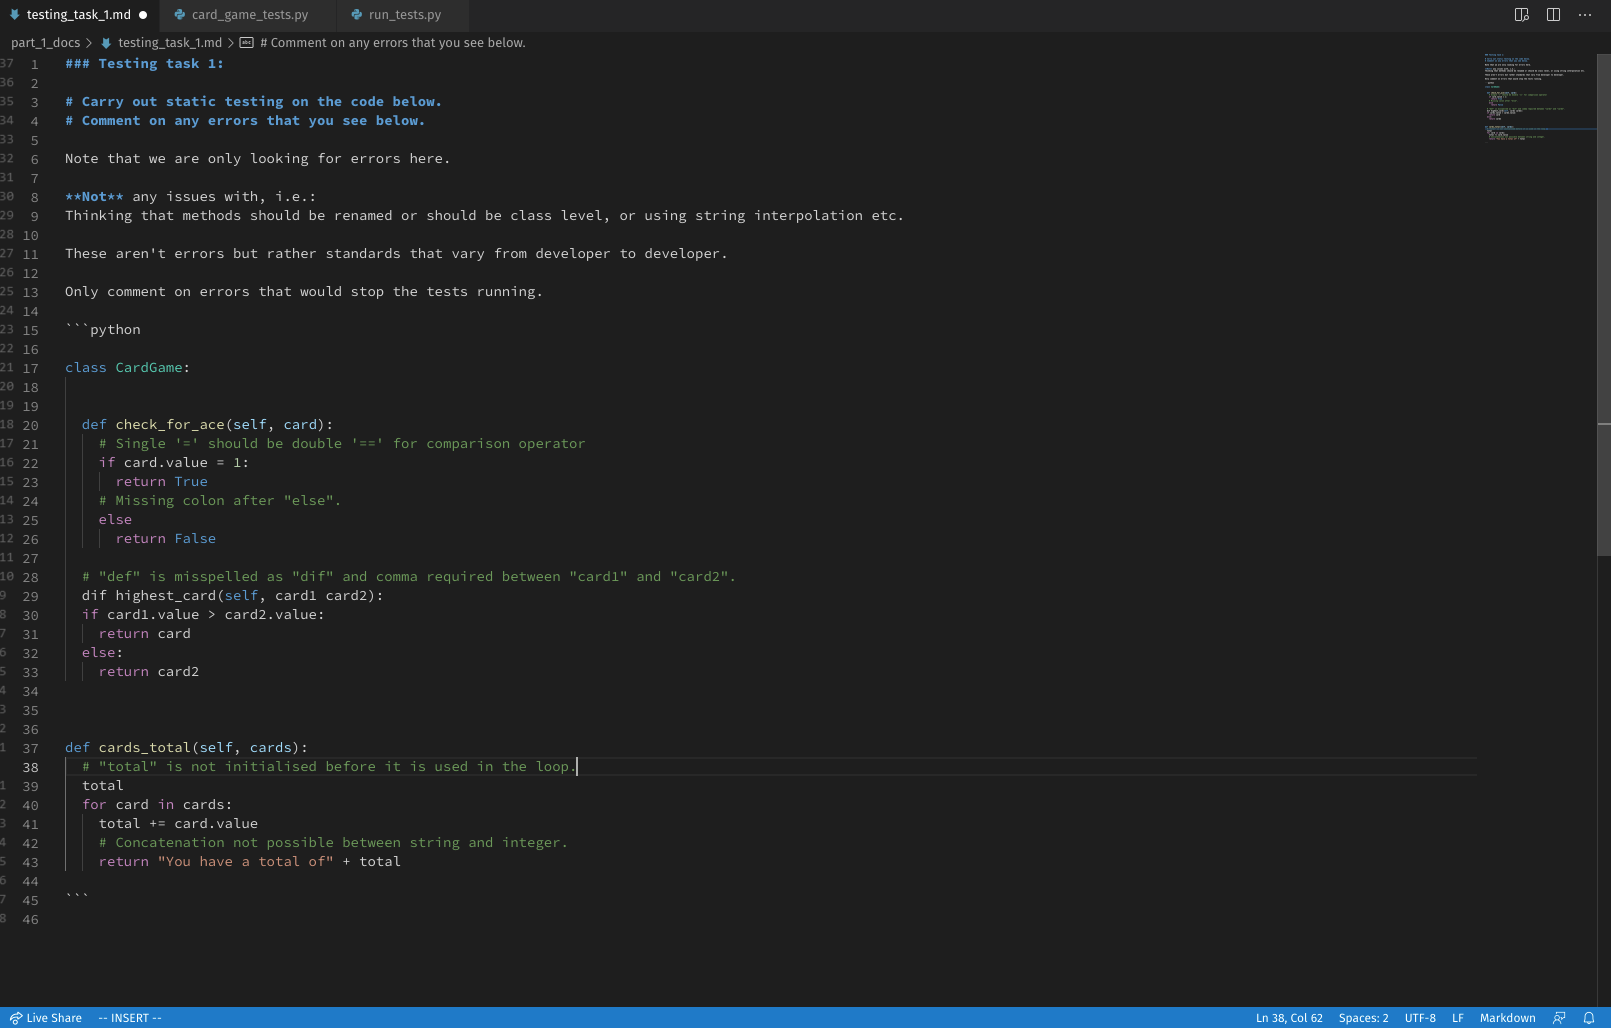
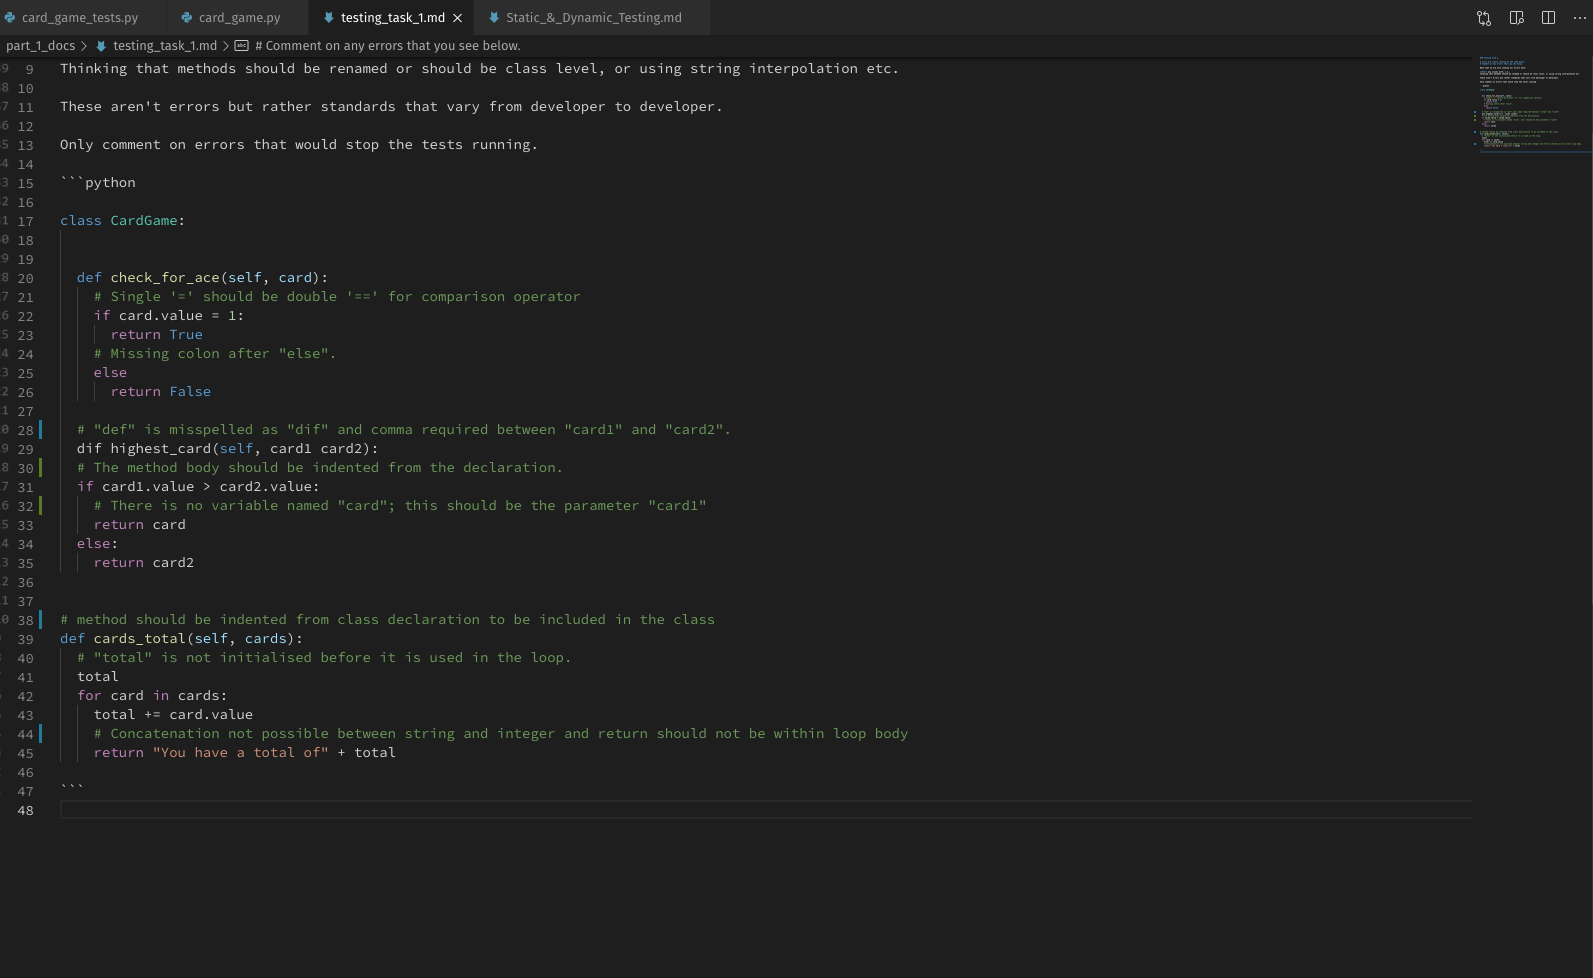
Completed assignment

diff --git a/part_2_code/specs/card_game_tests.py b/part_2_code/specs/card_game_tests.py
@@ -3,4 +3,32 @@ from src.card import Card
 from src.card_game import CardGame
 
 class TestCardGame(unittest.TestCase):
-    pass
+
+    def setUp(self):
+        
+        self.ace_spades = Card("spades", 1)
+        self.three_clubs = Card("clubs", 3)
+        self.nine_hearts = Card("hearts", 9)
+
+        self.cards = [
+            self.ace_spades,
+            self.three_clubs,
+            self.nine_hearts
+        ]
+
+        self.card_game = CardGame()
+
+    def test_check_for_ace(self):
+        
+        self.assertEqual(True, self.card_game.check_for_ace(self.ace_spades))
+        self.assertEqual(False, self.card_game.check_for_ace(self.three_clubs))
+
+    
+    def test_highest_card(self):
+
+        self.assertEqual(self.nine_hearts, self.card_game.highest_card(self.three_clubs, self.nine_hearts))
+        self.assertEqual(self.nine_hearts, self.card_game.highest_card(self.nine_hearts, self.three_clubs))
+
+    
+    def test_cards_total(self):
+        self.assertEqual("You have a total of 13", self.card_game.cards_total(self.cards))

diff --git a/part_2_code/src/card_game.py b/part_2_code/src/card_game.py
@@ -8,22 +8,23 @@ class CardGame:
 
 
   def check_for_ace(self, card):
-    if card.value = 1:
+    if card.value == 1:
       return True
-    else
+    else:
       return False
    
 
-  dif highest_card(self, card1 card2):
-  if card1.value > card2.value:
-    return card
-  else:
-    return card2
+  def highest_card(self, card1, card2):
+    if card1.value > card2.value:
+      return card1
+    else:
+      return card2
   
 
 
-def cards_total(self, cards):
-  total
-  for card in cards:
-    total += card.value
-    return "You have a total of" + total
+  def cards_total(self, cards):
+    total = 0
+    for card in cards:
+      total += card.value
+
+    return f"You have a total of {total}"

diff --git a/part_1_docs/testing_task_1.md b/part_1_docs/testing_task_1.md
@@ -25,21 +25,23 @@ class CardGame:
     else
       return False
    
-  # "def" is misspelled as "dif".
+  # "def" is misspelled as "dif" and comma required between "card1" and "card2".
   dif highest_card(self, card1 card2):
+  # The method body should be indented from the declaration.
   if card1.value > card2.value:
+    # There is no variable named "card"; this should be the parameter "card1"
     return card
   else:
     return card2
   
 
-
+# method should be indented from class declaration to be included in the class
 def cards_total(self, cards):
   # "total" is not initialised before it is used in the loop.
   total
   for card in cards:
     total += card.value
-    # Concatenation not possible between string and integer. 
+    # Concatenation not possible between string and integer and return should not be within loop body
     return "You have a total of" + total
   
 ```
